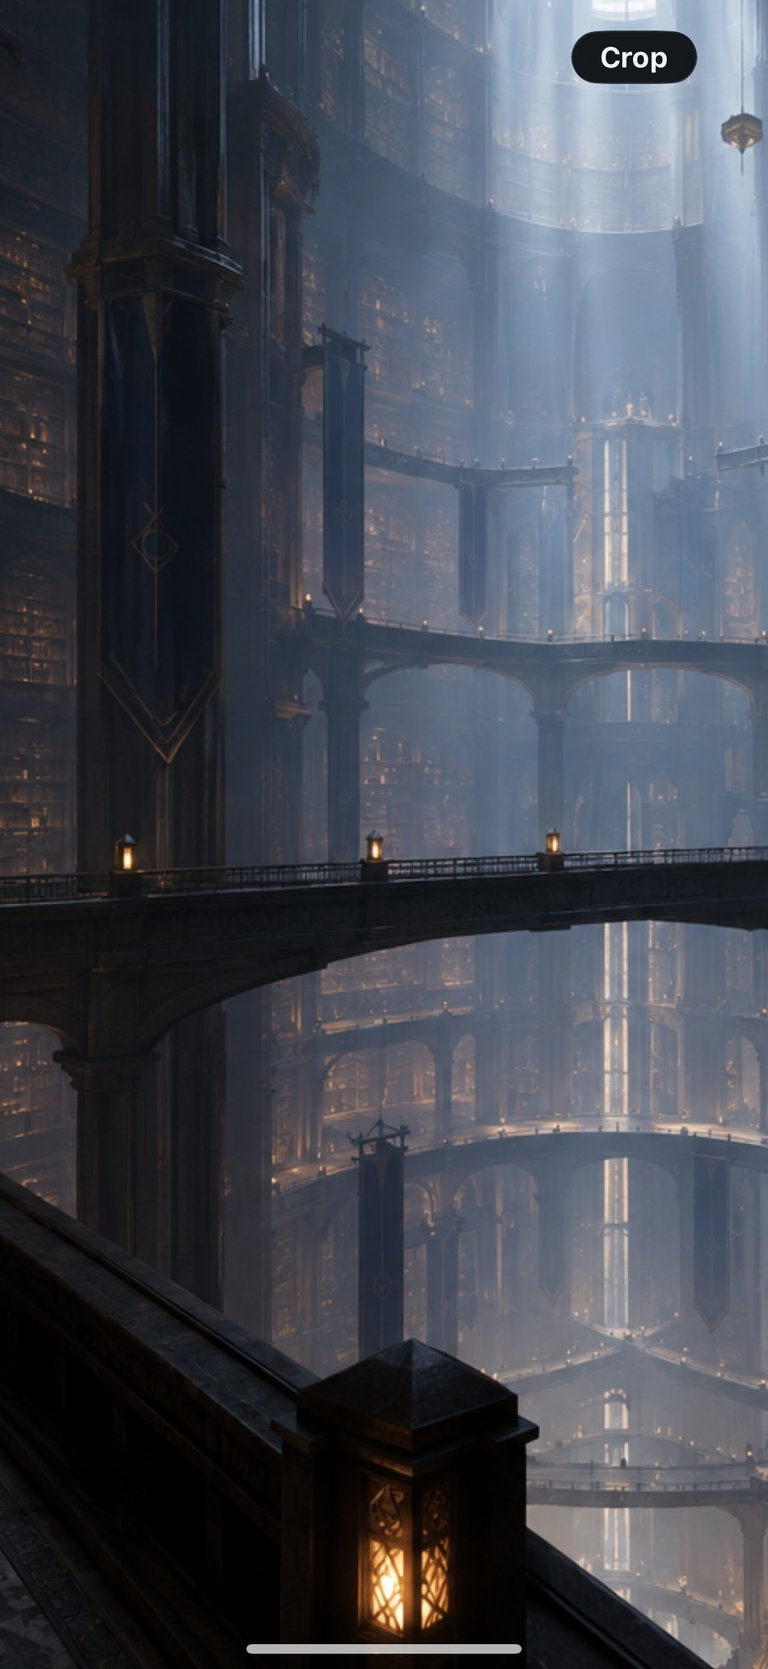
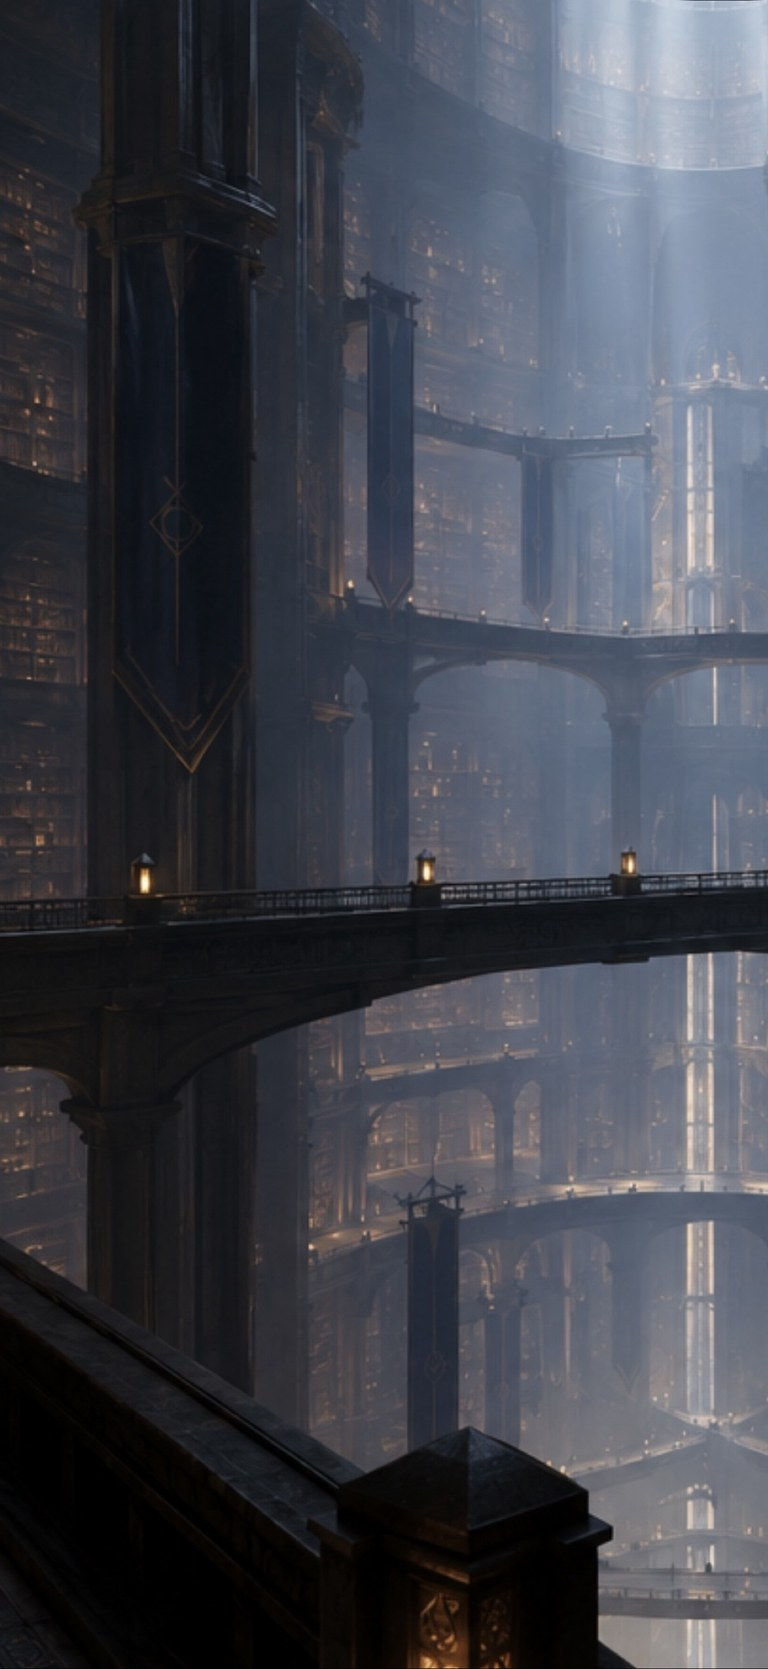
Use user's exact bg images, remove dark overlay (2026-10-18)

diff --git a/src/styles.css b/src/styles.css
@@ -2535,23 +2535,19 @@ a.territory-row:hover .t-arrow { opacity: 1; }
    (description, catalog record) stays as-is.
    ============================================================ */
 main.tower-entry {
-  /* Light fade (2026-10-18): just enough to keep text readable, the library
-     image stays bright and clear like the reference. */
-  background-image:
-    linear-gradient(rgba(8, 10, 14, 0.28), rgba(8, 10, 14, 0.28)),
-    url("/tower-reader-bg-landscape.jpg");
+  /* Reader background (2026-10-18): user's exact images, no overlay —
+     the scenes are already dark/moody. */
+  background-image: url("/tower-reader-bg-landscape.jpg");
   background-size: cover;
   background-position: center top;
   background-repeat: no-repeat;
   background-attachment: fixed;
 }
-/* Phones: portrait-cropped version of the new library image. */
+/* Phones: portrait version of the user's image. */
 @media (max-width: 768px) {
   main.tower-entry {
     background-attachment: scroll;
-    background-image:
-      linear-gradient(rgba(8, 10, 14, 0.28), rgba(8, 10, 14, 0.28)),
-      url("/tower-reader-bg.jpg");
+    background-image: url("/tower-reader-bg.jpg");
     background-position: center top;
   }
 }
